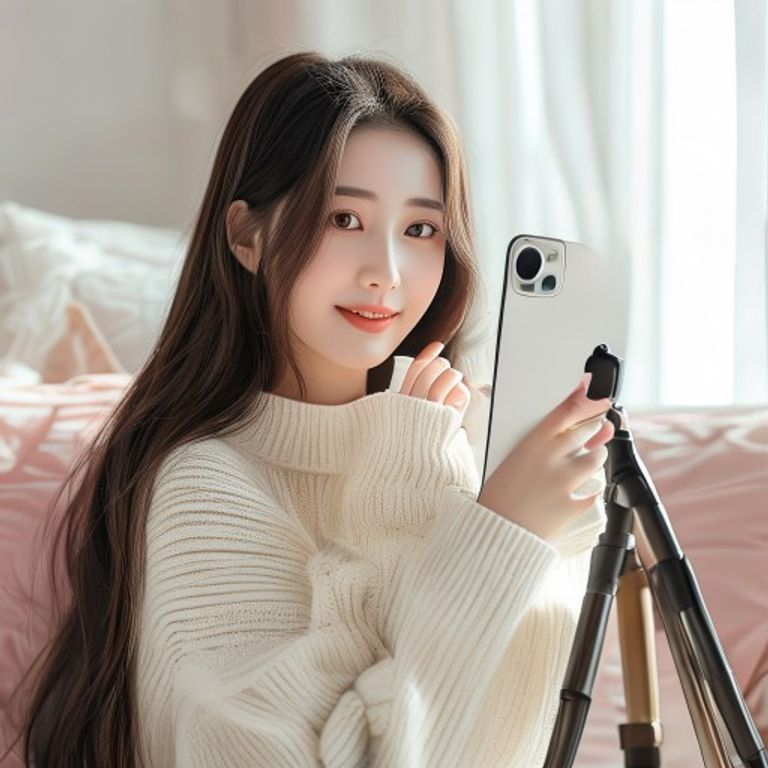
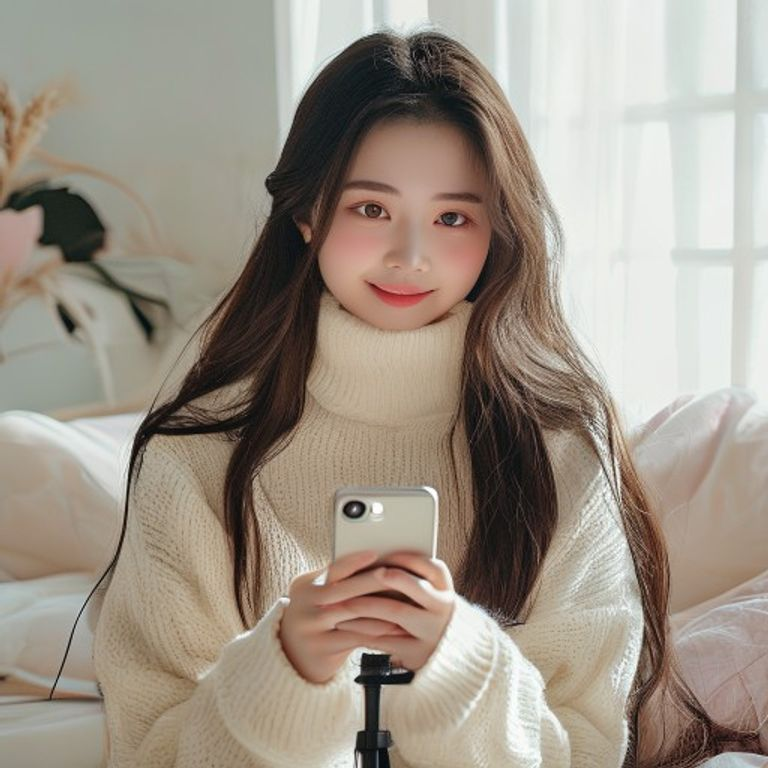
beginner LP: ヒーロー写真差し替え（腕・指の接続まで全部位拡大検品済みのカットへ）

diff --git a/lp/beginner/index.html b/lp/beginner/index.html
@@ -9,7 +9,7 @@
   <meta property="og:description" content="還元率100%・ノルマなし・未経験OK。150人以上が所属するライバー事務所TAITAN PRO。Pococha・TikTok LIVE対応。">
   <meta property="og:type" content="website">
   <meta property="og:url" content="https://taitan-pro-lp.netlify.app/beginner/">
-  <meta property="og:image" content="https://taitan-pro-lp.netlify.app/shared/img/hero-liver-photo.jpg?v=20260720d">
+  <meta property="og:image" content="https://taitan-pro-lp.netlify.app/shared/img/hero-liver-photo.jpg?v=20260720e">
   <meta name="twitter:card" content="summary_large_image">
   <link rel="preconnect" href="https://fonts.googleapis.com">
   <link rel="preconnect" href="https://fonts.gstatic.com" crossorigin>
@@ -112,7 +112,7 @@
   <section class="hero" id="top">
     <!-- 画像差し替え：ファーストビューのメインビジュアル -->
     <div class="hero-visual">
-      <img src="../shared/img/hero-liver-photo.jpg?v=20260720d" alt="スマホで配信する女性" width="768" height="768" fetchpriority="high">
+      <img src="../shared/img/hero-liver-photo.jpg?v=20260720e" alt="スマホで配信する女性" width="768" height="768" fetchpriority="high">
     </div>
 
     <div class="hero-inner">
